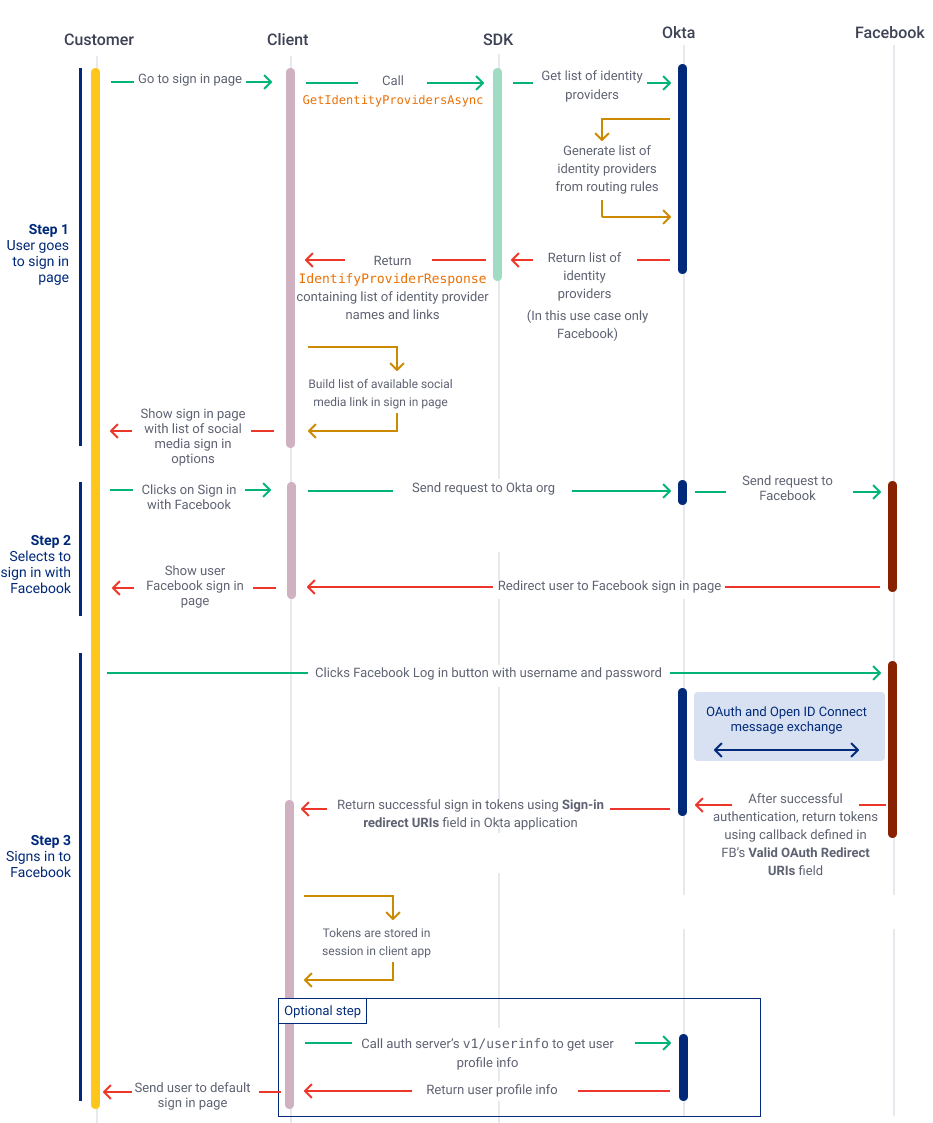
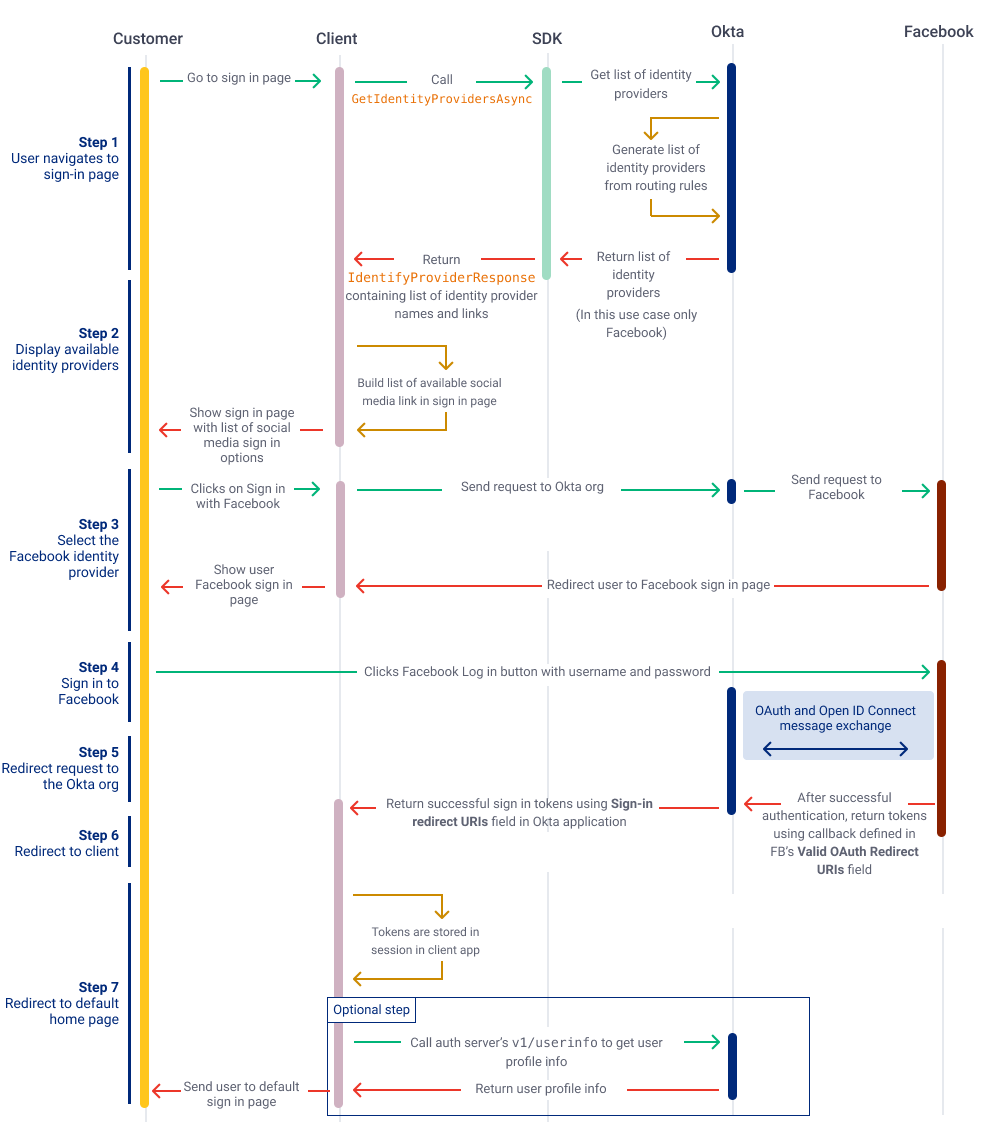
aspnet embedded sdk social idp clean up steps

diff --git a/packages/@okta/vuepress-site/docs/guides/oie-embedded-sdk-use-cases/oie-embedded-sdk-use-case-sign-in-soc-idp/aspnet/integrationsteps.md b/packages/@okta/vuepress-site/docs/guides/oie-embedded-sdk-use-cases/oie-embedded-sdk-use-case-sign-in-soc-idp/aspnet/integrationsteps.md
@@ -1,4 +1,4 @@
-### Step 1: Make a call to GetIdentityProvidersAsync when user goes to the sign-in page
+### Step 1: User navigates to sign-in page
 
 The first step is make a call to `GetIdentityProvidersAsync` when the sign in page loads. This method retrieves all the identity providers that were added to the routing rule (**Use this identity provider** field) in the [Set up your Okta org (for social identity providers)](/docs/guides/oie-embedded-common-org-setup/aspnet/main/#set-up-your-okta-org-for-social-identity-providers).
 
@@ -19,7 +19,7 @@ return View(loginViewModel);
 
 The code calls `GetIdentityProvidersAsync`, which returns a list of identity providers. This list is sent to the view in a view model.
 
-### Step 2: Loop through Identity Providers (during sign-in page load)
+### Step 2: Display available identity providers
 
 The next step is to loop through the identity provider list and show links for each of the configured identity providers. In this use case, only the Facebook identity provider is shown.
 
@@ -49,11 +49,11 @@ The followng sample shows the button to sign in with Facebook.
 
 </div>
 
-### Step 3: Sign in with Facebook IdP link
+### Step 3: Select the Facebook identity provider
 
 The user clicks the sign-in link, which sends them initially to the Okta org. The `HRef` property contains a URL that's linked to the Okta org. From the org, the request gets routed to Facebook for user sign-in. You don't need to implement additional code changes to perform this step.
 
-### Step 4: User signs in to Facebook
+### Step 4: Sign in to Facebook
 
 Next, the user enters their email and password, and clicks **Log in**. This page is hosted by Facebook. The user information that you enter originates from a test user that you configured in [Set up your Okta org (for social identity providers)](/docs/guides/oie-embedded-common-org-setup/aspnet/main/#set-up-your-okta-org-for-social-identity-providers). You don't need to make any code changes in your app to perform this step.
 
@@ -64,10 +64,10 @@ Next, the user enters their email and password, and clicks **Log in**. This page
 
 </div>
 
-### Step 5: Facebook redirects to your Okta org
+### Step 5: Redirect request to the Okta org
 If the user's Facebook login is successful, Facebook routes the user to the values that you entered in **Valid OAuth Redirect URIs** and **Site URL** in [Set up your Okta org (for social identity providers)](/docs/guides/oie-embedded-common-org-setup/aspnet/main/#set-up-your-okta-org-for-social-identity-providers). The values use the following format: `https://{Okta org domain}/oauth2/v1/authorize/callback.` (for example, `https://dev-12345678.okta.com/oauth2/v1/authorize/callback`)
 
-### Step 6: Okta org redirects to your app through the sign-in redirect URIs
+### Step 6: Redirect to client
 
 After Facebook sends the success login request to your Okta org, the org redirects the request to your app through the Application's **Sign-in redirect URIs** field, which was configured in [Set up your Okta org (for password factor only use cases)](/docs/guides/oie-embedded-common-org-setup/aspnet/main/#set-up-your-okta-org-for-password-factor-only-use-cases).
 
@@ -93,5 +93,6 @@ public async Task<ActionResult> Callback(string state = null, string interaction
 }
 ```
 
-### Step 7: Send the user to the default home page
+### Step 7: Redirect to default home page
+
 The user is now successfully signed in and can be sent to the default sign-in page. In the sample application, the default sign-page is the user profile page.
